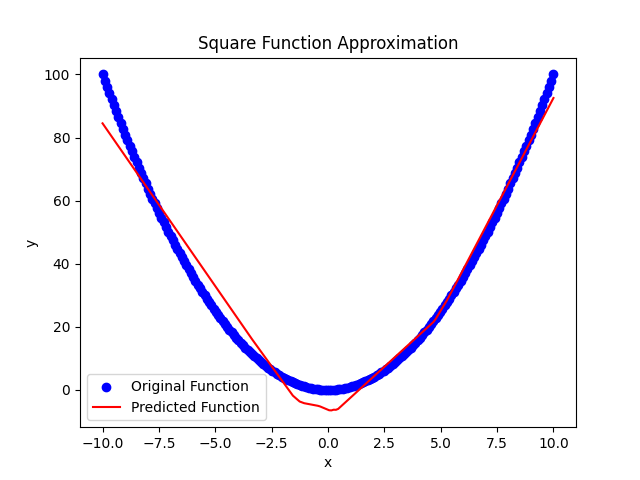
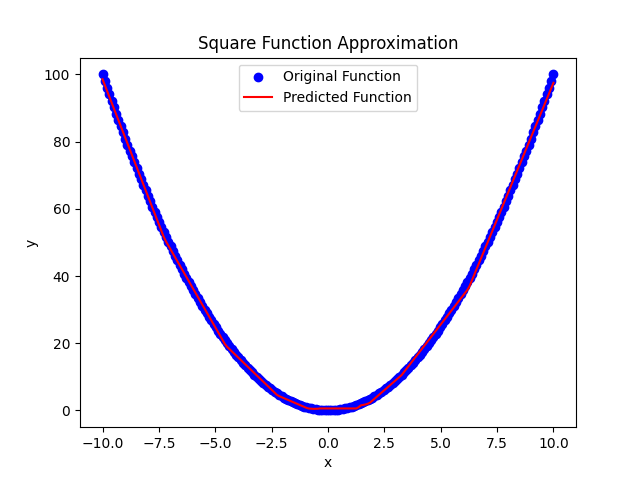
dsp task7

diff --git a/DSP/task7/task7_extra.py b/DSP/task7/task7_extra.py
@@ -18,7 +18,7 @@ model = tf.keras.Sequential([
 model.compile(optimizer='adam', loss='mean_squared_error')
 
 # Train the model
-history = model.fit(x, y, epochs=500, verbose=0)
+history = model.fit(x, y, epochs=2500, verbose=0)
 
 # Plot loss function during training
 loss_values = history.history['loss']
@@ -31,7 +31,7 @@ plt.savefig("e1")
 
 # Make predictions
 y_pred = model.predict(x)
-
+print(f"Loss Values 250: {loss_values[249]}500 {loss_values[499]} 750: {loss_values[749]} 1000: {loss_values[999]} 1250: {loss_values[1249]} 1500: {loss_values[1499]}1750: {loss_values[1750]} 2000: {loss_values[1999]} 2500: {loss_values[2499]}")
 # Plot original square function and predicted function
 plt.figure(2)
 plt.scatter(x, y, label='Original Function', color='blue')

diff --git a/DSP/task7/task7.py b/DSP/task7/task7.py
@@ -17,7 +17,7 @@ model = tf.keras.Sequential([
 model.compile(optimizer='sgd', loss='mean_squared_error')
 
 # Train the model
-history = model.fit(x, y, epochs=1000, verbose=0)
+history = model.fit(x, y, epochs=1500, verbose=0)
 
 # Plot loss function during training
 loss_values = history.history['loss']
@@ -49,3 +49,6 @@ plt.ylabel('y')
 plt.title('Linear Regression with One Neuron')
 plt.legend()
 plt.savefig("2.png")
+``
+
+print(f"a: {a} b: {b}\n Loss Value 250: {loss_values[249]}500 {loss_values[499]} 750: {loss_values[749]} 1000: {loss_values[999]}1250: {loss_values[1249]}1500: {loss_values[1499]}")
